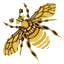
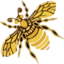
Clothes colors added, update cursor img, replace map with image and link

diff --git a/docs/css/main.min.css b/docs/css/main.min.css
@@ -1,2 +1,2 @@
-*{-webkit-box-sizing:border-box;box-sizing:border-box;margin:0;padding:0}@font-face{font-family:'banda_regularregular';src:url("../fonts/regular.otf") format("opentype");font-weight:normal;font-style:normal}@font-face{font-family:'skautbold';src:url("https://cdn.skauting.cz/fonts/skaut-bold-webfont.eot");src:url("https://cdn.skauting.cz/fonts/skaut-bold-webfont.eot? #iefix") format("embedded-opentype");src:url("https://cdn.skauting.cz/fonts/skaut-bold-webfont.woff") format("woff"),url("https://cdn.skauting.cz/fonts/skaut-bold-webfont.woff2") format("woff2"),url("https://cdn.skauting.cz/fonts/skaut-bold-webfont.otf") format("opentype"),url("https://cdn.skauting.cz/fonts/skaut-bold-webfont.svg#skautbold") format("svg");font-weight:normal;font-style:normal}.grid-container{width:100vw;height:100vh;display:-webkit-box;display:-ms-flexbox;display:flex;-webkit-box-pack:center;-ms-flex-pack:center;justify-content:center;-webkit-box-align:center;-ms-flex-align:center;align-items:center;overflow:hidden}.hex-grid{position:relative;width:325px;height:414px;margin:0}.hex-grid__item{text-align:center;position:absolute;max-width:90px;max-height:70px}.hex-grid__item .container{display:-webkit-box;display:-ms-flexbox;display:flex;position:absolute;top:0;left:0;-webkit-box-pack:center;-ms-flex-pack:center;justify-content:center;-webkit-box-align:center;-ms-flex-align:center;align-items:center;width:90px;height:70px}.hex-grid__item .form{font-size:0.6rem}.hex-grid__img{width:100%}.hex-grid__title{text-transform:uppercase;font-family:"skautbold";color:#f1ac3c;font-size:0.7rem}.hex-img{display:none}@media (min-width: 576px){.hex-grid{width:425px;height:575px;margin:0}.hex-grid__item{max-width:120px;max-height:100px}.hex-grid__item .container{width:120px;height:100px}.hex-grid__item .form{font-size:0.8rem}.hex-grid__title{font-size:1rem}}@media (min-width: 768px){.hex-grid{width:650px;height:483px}.hex-grid__item{max-width:150px;max-height:230px -100px}.hex-grid__item .container{width:150px;height:130px}.hex-grid__item .form{font-size:1rem}.hex-grid__title{font-size:1.3rem}}@media (min-width: 992px){.hex-grid{width:725px;height:552px}.hex-grid__item{max-width:170px;max-height:150px}.hex-grid__item .container{width:170px;height:150px}.hex-grid__item .form{font-size:1.2rem}.hex-grid__title{font-size:1.5rem}}@media screen and (min-width: 1200px){.hex-grid{width:875px;height:644px}.hex-grid__item{max-width:200px;max-height:180px}.hex-grid__item .container{width:200px;height:180px}.hex-grid__item .form{font-size:1.3rem}.hex-grid__title{font-size:1.5rem}}@media screen and (min-height: 830px){.hex-grid{width:1075px;height:805px}.hex-grid__item{max-width:250px;max-height:230px}.hex-grid__item .container{width:250px;height:230px}.hex-grid__item .form{font-size:1.3rem}.hex-grid__title{font-size:1.5rem}}.content-container{cursor:default}.header{display:-webkit-box;display:-ms-flexbox;display:flex;-webkit-box-pack:center;-ms-flex-pack:center;justify-content:center}.header__container{width:15rem;height:8rem;display:-webkit-box;display:-ms-flexbox;display:flex;-webkit-box-pack:center;-ms-flex-pack:center;justify-content:center;background-image:url("../img/page_blank_top.png");background-color:#331907;background-size:contain;background-repeat:no-repeat}.header__title{margin-top:5vh;font-size:2rem}.footer{height:20vh;width:100%;display:-webkit-box;display:-ms-flexbox;display:flex;-webkit-box-pack:center;-ms-flex-pack:center;justify-content:center;-webkit-box-align:center;-ms-flex-align:center;align-items:center}.content{width:85%;min-height:40vh;margin:0 auto;padding-top:5vh;text-align:center;display:-webkit-box;display:-ms-flexbox;display:flex;-webkit-box-orient:vertical;-webkit-box-direction:normal;-ms-flex-flow:column;flex-flow:column;-webkit-box-align:center;-ms-flex-align:center;align-items:center;-webkit-box-pack:center;-ms-flex-pack:center;justify-content:center}.content p{font-size:1rem;margin:0.5rem 0 1rem 0;line-height:1.5rem}.content a{color:#f1ac3c}.content a:hover{color:#d2b37a}.content h3{text-transform:uppercase;margin-top:1.5rem;margin-bottom:1rem}.content ul{text-align:left;width:90%;padding-left:1rem;color:#f1ac3c;line-height:1.5rem;margin-bottom:1rem}.map{width:80vw;height:30vh;margin:1rem 0}.iframe-container{display:none}@media screen and (min-width: 768px){.header__container{width:20rem;height:12rem}.header__title{font-size:2.5rem}.content{width:80%}.content ul{width:70%;padding-left:5rem}.map{width:60vw;height:40vh}.form-link{display:none}.iframe-container{display:inline-block;overflow:hidden;position:relative;width:80%;height:260vh}.iframe-container iframe{border:0;height:100%;left:0;position:absolute;top:0;width:100%}}@media screen and (min-width: 992px){.content{width:65%}.content ul{width:70%;padding-left:5rem}.map{width:50vw;height:50vh}}@media screen and (min-width: 1200px){.header__container{width:30rem;height:17rem}.header__title{font-size:4rem}.content{width:60%}.content ul{width:60%;padding-left:10rem}.map{width:50vw;height:50vh}.iframe-container{height:220vh}}.hex1{top:124.5px}.hex2{left:72px}.hex3{left:72px;top:83px}.hex4{left:72px;top:166px}.hex5{left:144px;top:41.5px}.hex6{left:144px;top:124.5px}.hex7{left:144px;top:207.5px}.hex8{left:216px;top:83px}.hex9{left:216px;top:166px}.hex10{left:72px;top:249px}.hex11{left:144px;top:290.5px}.hex12{left:216px;top:332px}@media (min-width: 576px){.hex1{top:171px}.hex2{left:100px}.hex3{left:100px;top:114px}.hex4{left:100px;top:228px}.hex5{left:200px;top:57px}.hex6{left:200px;top:171px}.hex7{left:200px;top:285px}.hex8{left:300px;top:114px}.hex9{left:300px;top:228px}.hex10{left:100px;top:342px}.hex11{left:200px;top:399px}.hex12{left:300px;top:456px}}@media (min-width: 768px){.hex1{top:210px}.hex2{left:122px}.hex3{left:122px;top:140px}.hex4{left:122px;top:280px}.hex5{left:244px;top:70px}.hex6{left:244px;top:210px}.hex7{left:244px;top:350px}.hex8{left:366px;top:140px}.hex9{left:366px;top:280px}.hex10{left:488px;top:70px}.hex11{left:488px;top:210px}.hex12{left:488px;top:350px}}@media screen and (min-width: 992px){.hex1{top:240px}.hex2{left:140px}.hex3{left:140px;top:160px}.hex4{left:140px;top:320px}.hex5{left:280px;top:80px}.hex6{left:280px;top:240px}.hex7{left:280px;top:400px}.hex8{left:420px;top:160px}.hex9{left:420px;top:320px}.hex10{left:560px;top:80px}.hex11{left:560px;top:240px}.hex12{left:560px;top:400px}}@media screen and (min-width: 1200px){.hex1{top:285px}.hex2{left:165px}.hex3{left:165px;top:190px}.hex4{left:165px;top:380px}.hex5{left:330px;top:95px}.hex6{left:330px;top:285px}.hex7{left:330px;top:475px}.hex8{left:495px;top:190px}.hex9{left:495px;top:380px}.hex10{left:660px;top:95px}.hex11{left:660px;top:285px}.hex12{left:660px;top:475px}}@media screen and (min-height: 830px){.hex1{top:345px}.hex2{left:200px}.hex3{left:200px;top:230px}.hex4{left:200px;top:460px}.hex5{left:400px;top:115px}.hex6{left:400px;top:345px}.hex7{left:400px;top:575px}.hex8{left:600px;top:230px}.hex9{left:600px;top:460px}.hex10{left:800px;top:115px}.hex11{left:800px;top:345px}.hex12{left:800px;top:575px}}.password{width:100vw;height:100vh;display:-webkit-box;display:-ms-flexbox;display:flex;-webkit-box-orient:vertical;-webkit-box-direction:normal;-ms-flex-flow:column;flex-flow:column;-webkit-box-pack:center;-ms-flex-pack:center;justify-content:center;-webkit-box-align:center;-ms-flex-align:center;align-items:center;overflow:hidden;cursor:default}.password__container{background-image:url("../img/hexagon_form_transparent.png");background-size:contain;background-repeat:no-repeat;height:18rem;width:20rem;display:-webkit-box;display:-ms-flexbox;display:flex;-webkit-box-pack:center;-ms-flex-pack:center;justify-content:center;-webkit-box-align:center;-ms-flex-align:center;align-items:center}.password__form{display:-webkit-box;display:-ms-flexbox;display:flex;-webkit-box-orient:vertical;-webkit-box-direction:normal;-ms-flex-flow:column;flex-flow:column;-webkit-box-align:center;-ms-flex-align:center;align-items:center;height:12rem;-webkit-box-pack:justify;-ms-flex-pack:justify;justify-content:space-between}.password__form label{font-size:2rem}.password__form input{padding:0.5rem}.password__form input:focus{background-color:#ffc}.password--invalid{margin-top:2rem;visibility:hidden;text-align:center}body{font-family:"banda_regularregular";background-color:#331907;cursor:url("../img/bee.png"),auto;-webkit-animation:transitionIn 0.75s;animation:transitionIn 0.75s;color:#ffc}h1{font-size:4.5rem;font-family:"skautbold"}p{font-size:1.5rem}button{font-family:"banda_regularregular";font-size:1.1rem;font-weight:600;background-color:transparent;border:3px solid #f1ac3c;color:#f1ac3c;padding:0.5rem 1.5rem;-webkit-transition:all 0.3s ease-in-out;transition:all 0.3s ease-in-out}button:hover{background-color:#f1ac3c;color:#331907;cursor:pointer}@-webkit-keyframes transitionIn{from{opacity:0;-webkit-transform:rotateX(-10deg);transform:rotateX(-10deg)}to{opacity:1;-webkit-transform:rotateX(0);transform:rotateX(0)}}@keyframes transitionIn{from{opacity:0;-webkit-transform:rotateX(-10deg);transform:rotateX(-10deg)}to{opacity:1;-webkit-transform:rotateX(0);transform:rotateX(0)}}
+*{-webkit-box-sizing:border-box;box-sizing:border-box;margin:0;padding:0}@font-face{font-family:'banda_regularregular';src:url("../fonts/regular.otf") format("opentype");font-weight:normal;font-style:normal}@font-face{font-family:'skautbold';src:url("https://cdn.skauting.cz/fonts/skaut-bold-webfont.eot");src:url("https://cdn.skauting.cz/fonts/skaut-bold-webfont.eot? #iefix") format("embedded-opentype");src:url("https://cdn.skauting.cz/fonts/skaut-bold-webfont.woff") format("woff"),url("https://cdn.skauting.cz/fonts/skaut-bold-webfont.woff2") format("woff2"),url("https://cdn.skauting.cz/fonts/skaut-bold-webfont.otf") format("opentype"),url("https://cdn.skauting.cz/fonts/skaut-bold-webfont.svg#skautbold") format("svg");font-weight:normal;font-style:normal}.grid-container{width:100vw;height:100vh;display:-webkit-box;display:-ms-flexbox;display:flex;-webkit-box-pack:center;-ms-flex-pack:center;justify-content:center;-webkit-box-align:center;-ms-flex-align:center;align-items:center;overflow:hidden}.hex-grid{position:relative;width:325px;height:414px;margin:0}.hex-grid__item{text-align:center;position:absolute;max-width:90px;max-height:70px}.hex-grid__item .container{display:-webkit-box;display:-ms-flexbox;display:flex;position:absolute;top:0;left:0;-webkit-box-pack:center;-ms-flex-pack:center;justify-content:center;-webkit-box-align:center;-ms-flex-align:center;align-items:center;width:90px;height:70px}.hex-grid__item .form{font-size:0.6rem}.hex-grid__img{width:100%}.hex-grid__title{text-transform:uppercase;font-family:"skautbold";color:#f1ac3c;font-size:0.7rem}.hex-img{display:none}@media (min-width: 576px){.hex-grid{width:425px;height:575px;margin:0}.hex-grid__item{max-width:120px;max-height:100px}.hex-grid__item .container{width:120px;height:100px}.hex-grid__item .form{font-size:0.8rem}.hex-grid__title{font-size:1rem}}@media (min-width: 768px){.hex-grid{width:650px;height:483px}.hex-grid__item{max-width:150px;max-height:230px -100px}.hex-grid__item .container{width:150px;height:130px}.hex-grid__item .form{font-size:1rem}.hex-grid__title{font-size:1.3rem}}@media (min-width: 992px){.hex-grid{width:725px;height:552px}.hex-grid__item{max-width:170px;max-height:150px}.hex-grid__item .container{width:170px;height:150px}.hex-grid__item .form{font-size:1.2rem}.hex-grid__title{font-size:1.5rem}}@media screen and (min-width: 1200px){.hex-grid{width:875px;height:644px}.hex-grid__item{max-width:200px;max-height:180px}.hex-grid__item .container{width:200px;height:180px}.hex-grid__item .form{font-size:1.3rem}.hex-grid__title{font-size:1.5rem}}@media screen and (min-height: 830px){.hex-grid{width:1075px;height:805px}.hex-grid__item{max-width:250px;max-height:230px}.hex-grid__item .container{width:250px;height:230px}.hex-grid__item .form{font-size:1.3rem}.hex-grid__title{font-size:1.5rem}}.content-container{cursor:default}.header{display:-webkit-box;display:-ms-flexbox;display:flex;-webkit-box-pack:center;-ms-flex-pack:center;justify-content:center}.header__container{width:15rem;height:8rem;display:-webkit-box;display:-ms-flexbox;display:flex;-webkit-box-pack:center;-ms-flex-pack:center;justify-content:center;background-image:url("../img/page_blank_top.png");background-color:#331907;background-size:contain;background-repeat:no-repeat}.header__title{margin-top:5vh;font-size:2rem}.footer{height:20vh;width:100%;display:-webkit-box;display:-ms-flexbox;display:flex;-webkit-box-pack:center;-ms-flex-pack:center;justify-content:center;-webkit-box-align:center;-ms-flex-align:center;align-items:center}.content{width:85%;min-height:40vh;margin:0 auto;padding-top:5vh;text-align:center;display:-webkit-box;display:-ms-flexbox;display:flex;-webkit-box-orient:vertical;-webkit-box-direction:normal;-ms-flex-flow:column;flex-flow:column;-webkit-box-align:center;-ms-flex-align:center;align-items:center;-webkit-box-pack:center;-ms-flex-pack:center;justify-content:center}.content p{font-size:1rem;margin:0.5rem 0 1rem 0;line-height:1.5rem}.content a{color:#f1ac3c}.content a:hover{color:#d2b37a}.content h3{text-transform:uppercase;margin-top:1.5rem;margin-bottom:1rem}.content ul{text-align:left;width:90%;padding-left:1rem;color:#f1ac3c;line-height:1.5rem;margin-bottom:1rem}.map{width:70vw;height:auto;margin:1rem 0}.iframe-container{display:none}.colors{width:15rem;border:4px solid #f1ac3c;margin-bottom:1rem}@media screen and (min-width: 768px){.header__container{width:20rem;height:12rem}.header__title{font-size:2.5rem}.content{width:80%}.content ul{width:70%;padding-left:5rem}.map{width:60vw}.form-link{display:none}.iframe-container{display:inline-block;overflow:hidden;position:relative;width:80%;height:260vh}.iframe-container iframe{border:0;height:100%;left:0;position:absolute;top:0;width:100%}.colors{width:20rem}}@media screen and (min-width: 992px){.content{width:65%}.content ul{width:70%;padding-left:5rem}.map{width:50vw}}@media screen and (min-width: 1200px){.header__container{width:30rem;height:17rem}.header__title{font-size:4rem}.content{width:45%}.content ul{width:60%;padding-left:10rem}.map{width:40vw}.iframe-container{height:220vh}}.hex1{top:124.5px}.hex2{left:72px}.hex3{left:72px;top:83px}.hex4{left:72px;top:166px}.hex5{left:144px;top:41.5px}.hex6{left:144px;top:124.5px}.hex7{left:144px;top:207.5px}.hex8{left:216px;top:83px}.hex9{left:216px;top:166px}.hex10{left:72px;top:249px}.hex11{left:144px;top:290.5px}.hex12{left:216px;top:332px}@media (min-width: 576px){.hex1{top:171px}.hex2{left:100px}.hex3{left:100px;top:114px}.hex4{left:100px;top:228px}.hex5{left:200px;top:57px}.hex6{left:200px;top:171px}.hex7{left:200px;top:285px}.hex8{left:300px;top:114px}.hex9{left:300px;top:228px}.hex10{left:100px;top:342px}.hex11{left:200px;top:399px}.hex12{left:300px;top:456px}}@media (min-width: 768px){.hex1{top:210px}.hex2{left:122px}.hex3{left:122px;top:140px}.hex4{left:122px;top:280px}.hex5{left:244px;top:70px}.hex6{left:244px;top:210px}.hex7{left:244px;top:350px}.hex8{left:366px;top:140px}.hex9{left:366px;top:280px}.hex10{left:488px;top:70px}.hex11{left:488px;top:210px}.hex12{left:488px;top:350px}}@media screen and (min-width: 992px){.hex1{top:240px}.hex2{left:140px}.hex3{left:140px;top:160px}.hex4{left:140px;top:320px}.hex5{left:280px;top:80px}.hex6{left:280px;top:240px}.hex7{left:280px;top:400px}.hex8{left:420px;top:160px}.hex9{left:420px;top:320px}.hex10{left:560px;top:80px}.hex11{left:560px;top:240px}.hex12{left:560px;top:400px}}@media screen and (min-width: 1200px){.hex1{top:285px}.hex2{left:165px}.hex3{left:165px;top:190px}.hex4{left:165px;top:380px}.hex5{left:330px;top:95px}.hex6{left:330px;top:285px}.hex7{left:330px;top:475px}.hex8{left:495px;top:190px}.hex9{left:495px;top:380px}.hex10{left:660px;top:95px}.hex11{left:660px;top:285px}.hex12{left:660px;top:475px}}@media screen and (min-height: 830px){.hex1{top:345px}.hex2{left:200px}.hex3{left:200px;top:230px}.hex4{left:200px;top:460px}.hex5{left:400px;top:115px}.hex6{left:400px;top:345px}.hex7{left:400px;top:575px}.hex8{left:600px;top:230px}.hex9{left:600px;top:460px}.hex10{left:800px;top:115px}.hex11{left:800px;top:345px}.hex12{left:800px;top:575px}}.password{width:100vw;height:100vh;display:-webkit-box;display:-ms-flexbox;display:flex;-webkit-box-orient:vertical;-webkit-box-direction:normal;-ms-flex-flow:column;flex-flow:column;-webkit-box-pack:center;-ms-flex-pack:center;justify-content:center;-webkit-box-align:center;-ms-flex-align:center;align-items:center;overflow:hidden;cursor:default}.password__container{background-image:url("../img/hexagon_form_transparent.png");background-size:contain;background-repeat:no-repeat;height:18rem;width:20rem;display:-webkit-box;display:-ms-flexbox;display:flex;-webkit-box-pack:center;-ms-flex-pack:center;justify-content:center;-webkit-box-align:center;-ms-flex-align:center;align-items:center}.password__form{display:-webkit-box;display:-ms-flexbox;display:flex;-webkit-box-orient:vertical;-webkit-box-direction:normal;-ms-flex-flow:column;flex-flow:column;-webkit-box-align:center;-ms-flex-align:center;align-items:center;height:12rem;-webkit-box-pack:justify;-ms-flex-pack:justify;justify-content:space-between}.password__form label{font-size:2rem}.password__form input{padding:0.5rem}.password__form input:focus{background-color:#ffc}.password--invalid{margin-top:2rem;visibility:hidden;text-align:center}body{font-family:"banda_regularregular";background-color:#331907;cursor:url("../img/bee.png"),auto;-webkit-animation:transitionIn 0.75s;animation:transitionIn 0.75s;color:#ffc}h1{font-size:4.5rem;font-family:"skautbold"}p{font-size:1.5rem}button{font-family:"banda_regularregular";font-size:1.1rem;font-weight:600;background-color:transparent;border:3px solid #f1ac3c;color:#f1ac3c;padding:0.5rem 1.5rem;-webkit-transition:all 0.3s ease-in-out;transition:all 0.3s ease-in-out}button:hover{background-color:#f1ac3c;color:#331907;cursor:pointer}@-webkit-keyframes transitionIn{from{opacity:0;-webkit-transform:rotateX(-10deg);transform:rotateX(-10deg)}to{opacity:1;-webkit-transform:rotateX(0);transform:rotateX(0)}}@keyframes transitionIn{from{opacity:0;-webkit-transform:rotateX(-10deg);transform:rotateX(-10deg)}to{opacity:1;-webkit-transform:rotateX(0);transform:rotateX(0)}}
 /*# sourceMappingURL=main.min.css.map */

diff --git a/docs/css/main.css b/docs/css/main.css
@@ -290,13 +290,19 @@
 }
 
 .map {
-  width: 80vw;
-  height: 30vh;
+  width: 70vw;
+  height: auto;
   margin: 1rem 0;
 }
 
 .iframe-container {
   display: none;
+}
+
+.colors {
+  width: 15rem;
+  border: 4px solid #f1ac3c;
+  margin-bottom: 1rem;
 }
 
 @media screen and (min-width: 768px) {
@@ -316,7 +322,6 @@
   }
   .map {
     width: 60vw;
-    height: 40vh;
   }
   .form-link {
     display: none;
@@ -336,6 +341,9 @@
     top: 0;
     width: 100%;
   }
+  .colors {
+    width: 20rem;
+  }
 }
 
 @media screen and (min-width: 992px) {
@@ -348,7 +356,6 @@
   }
   .map {
     width: 50vw;
-    height: 50vh;
   }
 }
 
@@ -361,15 +368,14 @@
     font-size: 4rem;
   }
   .content {
-    width: 60%;
+    width: 45%;
   }
   .content ul {
     width: 60%;
     padding-left: 10rem;
   }
   .map {
-    width: 50vw;
-    height: 50vh;
+    width: 40vw;
   }
   .iframe-container {
     height: 220vh;

diff --git a/scss/_content.scss b/scss/_content.scss
@@ -74,13 +74,19 @@
 }
 
 .map {
-  width: 80vw;
-  height: 30vh;
+  width: 70vw;
+  height: auto;
   margin: 1rem 0;
 }
 
 .iframe-container {
   display: none;
+}
+
+.colors {
+  width: 15rem;
+  border: 4px solid $primary-color;
+  margin-bottom: 1rem;
 }
 
 @media screen and (min-width: $md-breakpoint-width) {
@@ -106,7 +112,6 @@
 
   .map {
     width: 60vw;
-    height: 40vh;
   }
 
   .form-link {
@@ -129,6 +134,10 @@
       width: 100%;
     }
   }
+
+  .colors {
+    width: 20rem;
+  }
 }
 
 @media screen and (min-width: $lg-breakpoint-width) {
@@ -143,7 +152,6 @@
 
   .map {
     width: 50vw;
-    height: 50vh;
   }
 }
 
@@ -160,7 +168,7 @@
   }
 
   .content {
-    width: 60%;
+    width: 45%;
 
     ul {
       width: 60%;
@@ -169,8 +177,7 @@
   }
 
   .map {
-    width: 50vw;
-    height: 50vh;
+    width: 40vw;
   }
 
   .iframe-container {

diff --git a/docs/misto.html b/docs/misto.html
@@ -23,13 +23,9 @@
               >Hutě u Bechyně</a
             >.
           </p>
-          <iframe
-            class="map"
-            style="border: none"
-            src="https://frame.mapy.cz/s/lavalacabu"
-            frameborder="0"
-          ></iframe>
-
+          <a href="https://mapy.cz/s/pebapemubo" target="_blank">
+            <img class="map" src="./img/mapa_3.png" alt="Mapa" />
+          </a>
           <p>
             Obřad proběhne v lese a následné veselí na louce u řeky Lužnice.
           </p>

diff --git a/docs/obleceni.html b/docs/obleceni.html
@@ -21,6 +21,7 @@
             v duchu barevného ladění níže, nicméně není nutné roztáčet kola
             kapitalismu.
           </p>
+          <img class="colors" src="./img/colors.jpg" alt="Barevné ladění" />
           <p>
             Vezměte si na sebe to, v čem vám bude pohodlně. Pamatujte jen, že
             akce je převážně venkovní a odehrává se na louce, čili podpatky
